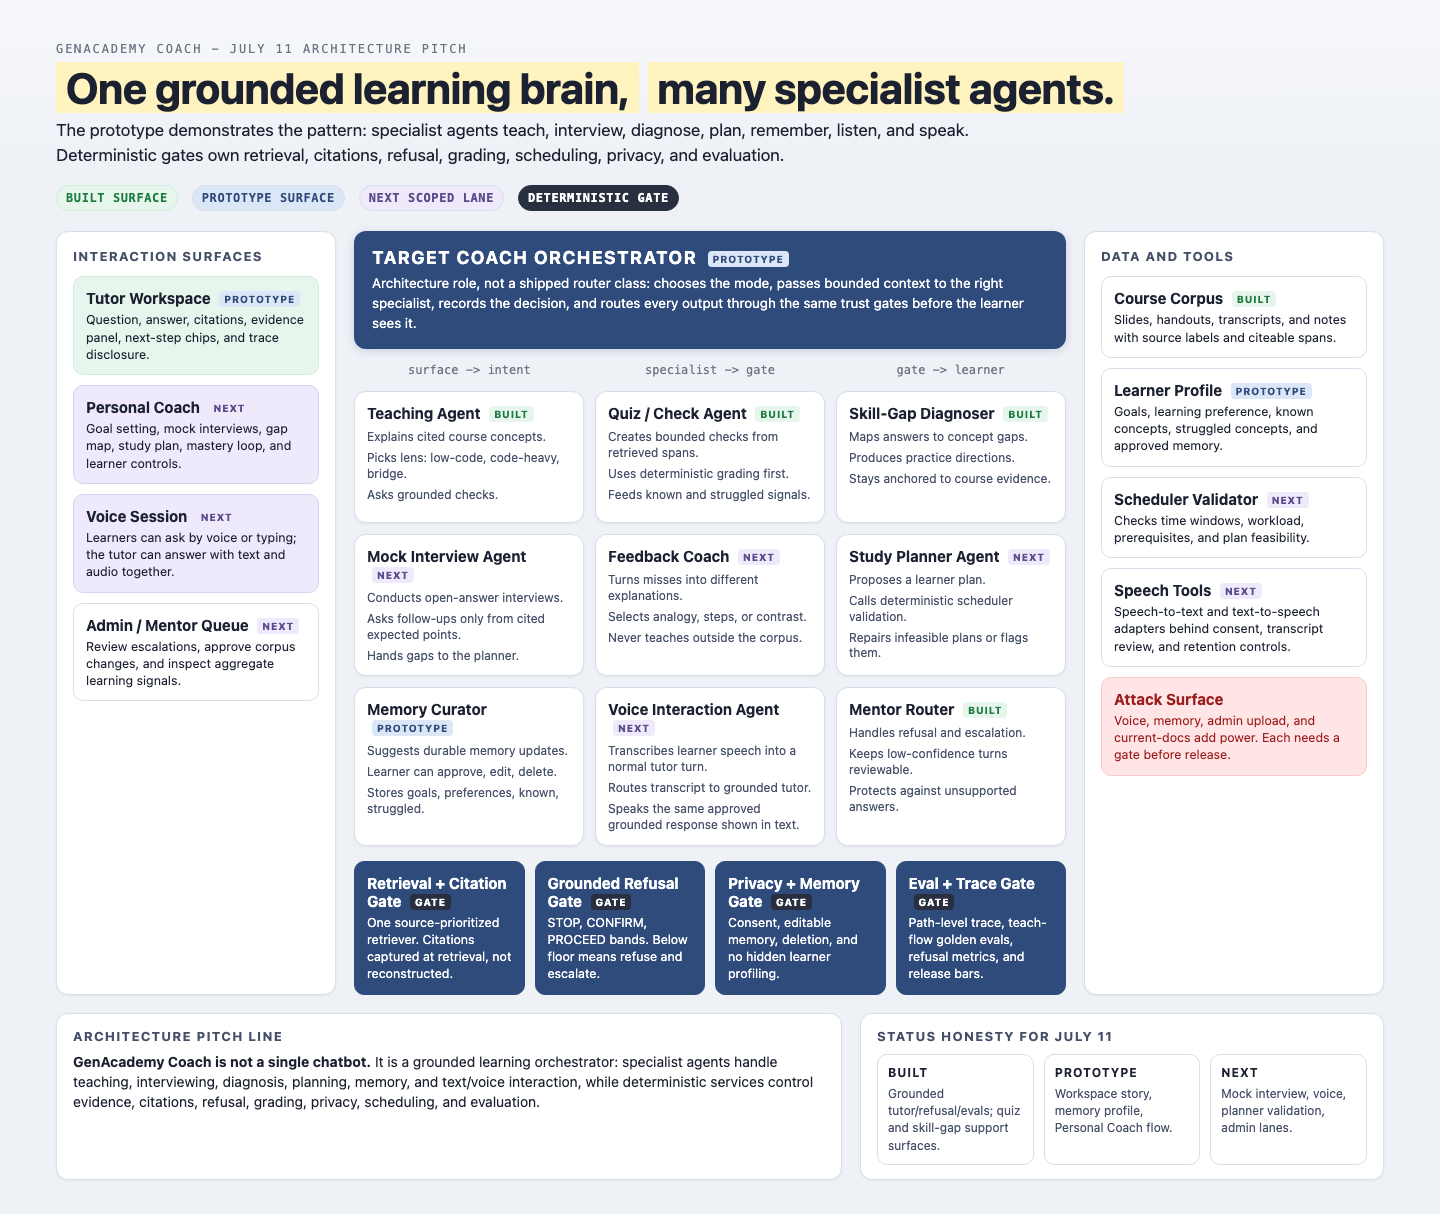
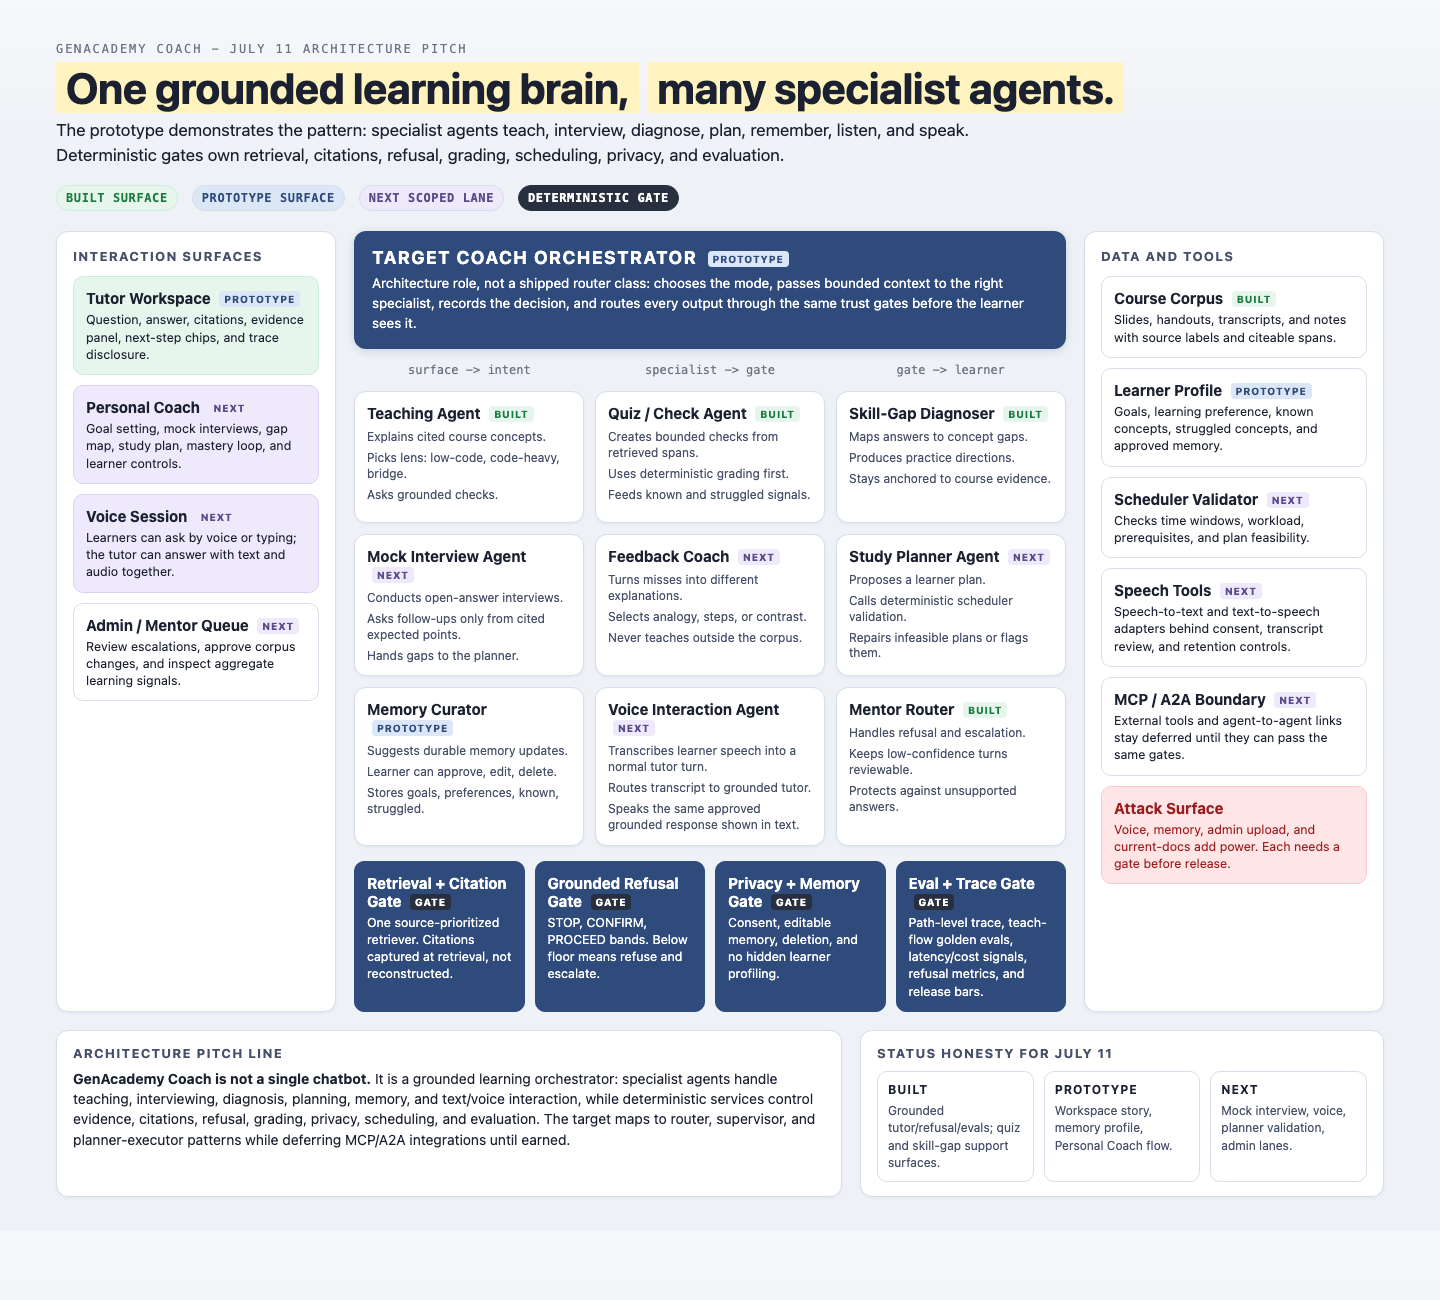
docs: align pitch artifacts with agentic AI course patterns

Changed region(s): [[0.0312, 0.0305, 0.9688, 0.9448], [0.8438, 0.8229, 0.9375, 0.9448]]

diff --git a/docs/assets/pitch/target-agentic-architecture.html b/docs/assets/pitch/target-agentic-architecture.html
@@ -211,7 +211,7 @@
         </div>
         <div class="node blue">
           <h3>Eval + Trace Gate <span class="tag guardTag">gate</span></h3>
-          <p>Path-level trace, teach-flow golden evals, refusal metrics, and release bars.</p>
+          <p>Path-level trace, teach-flow golden evals, latency/cost signals, refusal metrics, and release bars.</p>
         </div>
       </div>
     </main>
@@ -234,6 +234,10 @@
         <h3>Speech Tools <span class="tag nextTag">next</span></h3>
         <p>Speech-to-text and text-to-speech adapters behind consent, transcript review, and retention controls.</p>
       </div>
+      <div class="node">
+        <h3>MCP / A2A Boundary <span class="tag nextTag">next</span></h3>
+        <p>External tools and agent-to-agent links stay deferred until they can pass the same gates.</p>
+      </div>
       <div class="node rose">
         <h3>Attack Surface</h3>
         <p>Voice, memory, admin upload, and current-docs add power. Each needs a gate before release.</p>
@@ -247,7 +251,8 @@
       <p><b>GenAcademy Coach is not a single chatbot.</b> It is a grounded learning orchestrator:
         specialist agents handle teaching, interviewing, diagnosis, planning, memory, and text/voice interaction,
         while deterministic services control evidence, citations, refusal, grading, privacy,
-        scheduling, and evaluation.</p>
+        scheduling, and evaluation. The target maps to router, supervisor, and planner-executor
+        patterns while deferring MCP/A2A integrations until earned.</p>
     </div>
     <div class="callout">
       <h2>Status honesty for July 11</h2>

diff --git a/docs/assets/pitch/personal-coach-prototype-storyboard.html b/docs/assets/pitch/personal-coach-prototype-storyboard.html
@@ -344,7 +344,13 @@
       </div>
       <div class="section">
         <h3>Trust model</h3>
-        <p>Every lane returns to the same gates: retrieval, citation, refusal, privacy, trace, and eval.</p>
+        <p>Every lane returns to the same gates: retrieval, citation, refusal, privacy, trace, eval,
+          and cost/latency checks.</p>
+      </div>
+      <div class="section">
+        <h3>Pattern fit</h3>
+        <p>Router selects the lane; supervisor-style review separates interview, evaluation, diagnosis,
+          and coaching; planner-executor keeps study plans feasible.</p>
       </div>
       <div class="section">
         <h3>Demo order</h3>

diff --git a/docs/assets/pitch/agent-orchestration-flow.md b/docs/assets/pitch/agent-orchestration-flow.md
@@ -79,6 +79,25 @@ flowchart LR
     Response --> Voice --> Learner
 ```
 
+## Week 3 Pattern Alignment
+
+The target architecture maps to the Agentic AI Leap design patterns without pretending every layer is
+already built:
+
+- **Router pattern:** the target Coach Orchestrator is the routing/control role that selects tutor,
+  quiz/check, mock interview, memory, planner, voice, or escalation paths.
+- **Planner-executor pattern:** the Study Planner proposes a plan; deterministic scheduler validation
+  checks feasibility before anything is shown as a plan.
+- **Reflection / supervisor pattern:** the mock-interview loop separates interviewer, rubric
+  evaluator, misconception diagnoser, and feedback coach so one prompt is not grading itself.
+- **Human-in-the-loop pattern:** refusal and low-confidence cases route to mentor review instead of
+  forcing the agent to answer.
+- **MCP / A2A boundary:** external tool and agent-to-agent integrations stay deferred. If they are
+  added later, they plug in behind the same retrieval, citation, permission, privacy, and trace gates.
+- **Failure-mode controls:** loop caps, grounded citations, tool/route gating, cost/latency tracing,
+  and mentor escalation address common agent failures such as loops, unsupported tool use, token waste,
+  bad decisions, and wrong-tool routing.
+
 ## Pitch Line
 
 GenAcademy Coach is not a single chatbot. It is a grounded learning orchestrator: specialist agents
